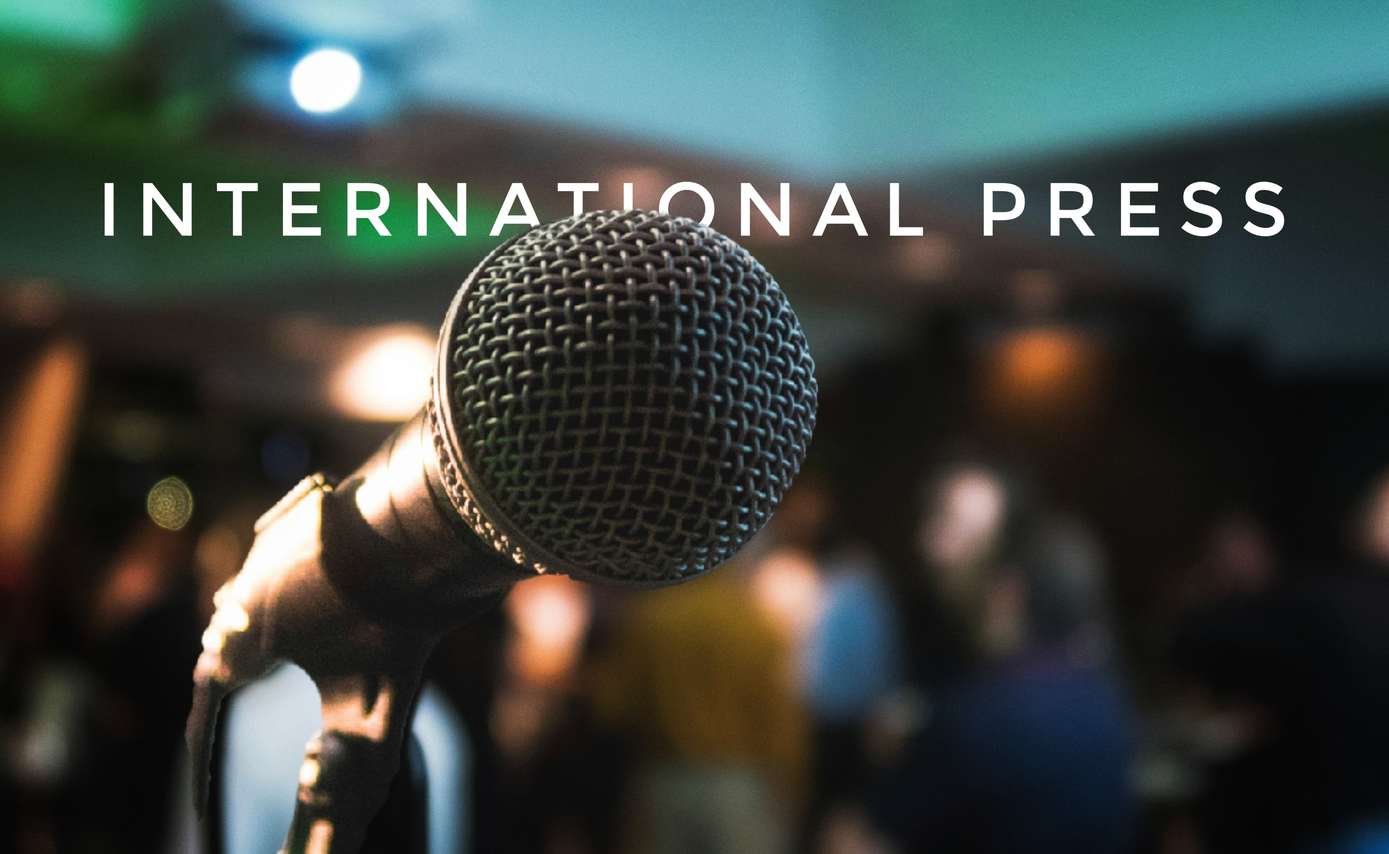
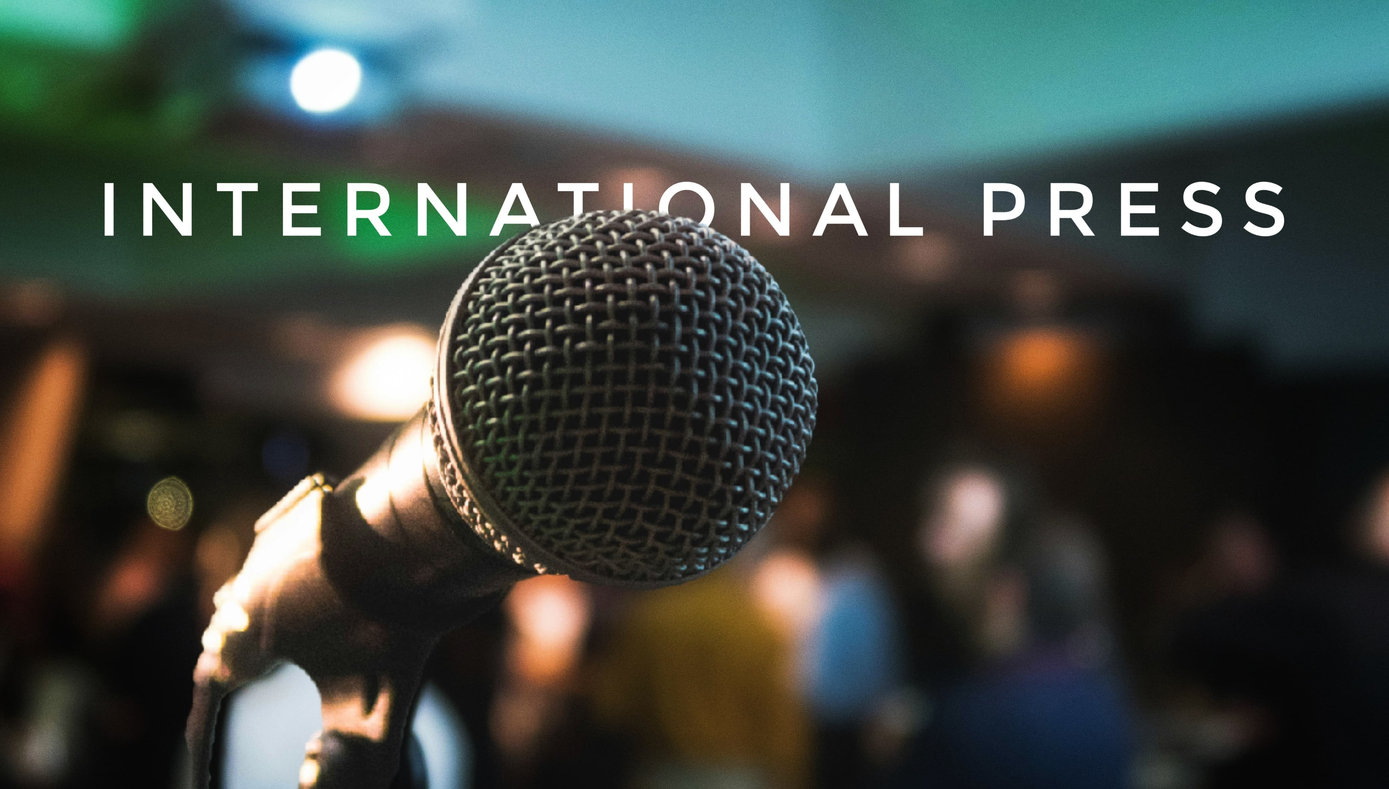
full mobile support

diff --git a/app/committees/internationalpress/layout.tsx b/app/committees/internationalpress/layout.tsx
@@ -12,21 +12,20 @@ export default function InternationalPressLayout({
     <>
       <RouteLoading />
       <div className="min-h-screen bg-black text-white">
-        <div className="relative h-screen">
-          <div className="absolute inset-0">
-            <Image
-              src="/images/committees/internationalpresscopy.jpg"
-              alt="International Press"
-              fill
-              className="object-cover"
-              priority
-              quality={100}
-            />
-            <div className="absolute inset-0 bg-gradient-to-b from-black/40 via-black/20 to-black" />
-          </div>
+        <div className="relative mt-[4rem] w-full h-[30vh] sm:h-[60vh] md:h-[70vh] lg:h-[80vh] xl:h-[90vh]">
+          <Image
+            src="/images/committees/internationalpresscopy.jpg"
+            alt="International Press"
+            fill
+            className="object-cover"
+            priority
+            quality={100}
+            sizes="100vw"
+          />
+          <div className="absolute inset-0 bg-gradient-to-b from-black/40 via-black/20 to-black" />
         </div>
 
-        <div className="container mx-auto px-4">{children}</div>
+        <div className="container mx-auto px-4 mt-8">{children}</div>
       </div>
     </>
   );

diff --git a/app/committees/ecosoc/layout.tsx b/app/committees/ecosoc/layout.tsx
@@ -12,21 +12,20 @@ export default function ECOSOCLayout({
     <>
       <RouteLoading />
       <div className="min-h-screen bg-black text-white">
-        <div className="relative h-screen">
-          <div className="absolute inset-0">
-            <Image
-              src="/images/committees/ecosoccopy.jpg"
-              alt="ECOSOC"
-              fill
-              className="object-cover"
-              priority
-              quality={100}
-            />
-            <div className="absolute inset-0 bg-gradient-to-b from-black/40 via-black/20 to-black" />
-          </div>
+        <div className="relative mt-[4rem] w-full h-[35vh] sm:h-[60vh] md:h-[70vh] lg:h-[80vh] xl:h-[90vh]">
+          <Image
+            src="/images/committees/ecosoccopy.jpg"
+            alt="ECOSOC"
+            fill
+            className="object-cover"
+            priority
+            quality={100}
+            sizes="100vw"
+          />
+          <div className="absolute inset-0 bg-gradient-to-b from-black/40 via-black/20 to-black" />
         </div>
 
-        <div className="container mx-auto px-4">{children}</div>
+        <div className="container mx-auto px-4 mt-8">{children}</div>
       </div>
     </>
   );

diff --git a/app/committees/disec/layout.tsx b/app/committees/disec/layout.tsx
@@ -12,21 +12,20 @@ export default function DISECLayout({
     <>
       <RouteLoading />
       <div className="min-h-screen bg-black text-white">
-        <div className="relative h-screen">
-          <div className="absolute inset-0">
-            <Image
-              src="/images/committees/diseccopy.jpg"
-              alt="DISEC"
-              fill
-              className="object-cover"
-              priority
-              quality={100}
-            />
-            <div className="absolute inset-0 bg-gradient-to-b from-black/40 via-black/20 to-black" />
-          </div>
+        <div className="relative mt-[4rem] w-full h-[30vh] sm:h-[60vh] md:h-[70vh] lg:h-[80vh] xl:h-[90vh]">
+          <Image
+            src="/images/committees/diseccopy.jpg"
+            alt="DISEC"
+            fill
+            className="object-cover"
+            priority
+            quality={100}
+            sizes="100vw"
+          />
+          <div className="absolute inset-0 bg-gradient-to-b from-black/40 via-black/20 to-black" />
         </div>
 
-        <div className="container mx-auto px-4">{children}</div>
+        <div className="container mx-auto px-4 mt-8">{children}</div>
       </div>
     </>
   );

diff --git a/app/committees/unhrc/layout.tsx b/app/committees/unhrc/layout.tsx
@@ -12,21 +12,20 @@ export default function UNHRCLayout({
     <>
       <RouteLoading />
       <div className="min-h-screen bg-black text-white">
-        <div className="relative h-screen">
-          <div className="absolute inset-0">
-            <Image
-              src="/images/committees/unhrccopy.jpg"
-              alt="UNHRC"
-              fill
-              className="object-cover"
-              priority
-              quality={100}
-            />
-            <div className="absolute inset-0 bg-gradient-to-b from-black/40 via-black/20 to-black" />
-          </div>
+        <div className="relative mt-[4rem] w-full h-[25vh] sm:h-[60vh] md:h-[70vh] lg:h-[80vh] xl:h-[90vh]">
+          <Image
+            src="/images/committees/unhrccopy.jpg"
+            alt="UNHRC"
+            fill
+            className="object-cover"
+            priority
+            quality={100}
+            sizes="100vw"
+          />
+          <div className="absolute inset-0 bg-gradient-to-b from-black/40 via-black/20 to-black" />
         </div>
 
-        <div className="container mx-auto px-4">{children}</div>
+        <div className="container mx-auto px-4 mt-8">{children}</div>
       </div>
     </>
   );

diff --git a/app/components/hero.tsx b/app/components/hero.tsx
@@ -49,7 +49,7 @@ export function Hero() {
           style={{ backgroundColor: "#000" }}
         />
         {bgLoaded && (
-          <div className="relative w-full pb-[56.25%] md:pb-0 md:h-screen">
+          <div className="relative w-screen pb-[56.25%] md:pb-0 md:h-[56vh] lg:h-[70vh] xl:h-[90vh] 2xl:h-[92vh]">
             <video
               ref={videoRef}
               className="absolute top-0 left-0 w-full h-full object-cover"

diff --git a/app/register/page.tsx b/app/register/page.tsx
@@ -305,7 +305,7 @@ export default function RegisterPage() {
               <p>Please scan the QR code below to make the payment:</p>
               <div className="flex justify-center">
                 <Image
-                  src="/placeholder.svg"
+                  src="/images/qr-1.jpg"
                   alt="Payment QR Code"
                   width={200}
                   height={200}

diff --git a/tailwind.config.ts b/tailwind.config.ts
@@ -18,6 +18,7 @@ const config: Config = {
       },
     },
     extend: {
+      screens: { xs: "22rem" },
       colors: {
         border: "hsl(var(--border))",
         input: "hsl(var(--input))",
